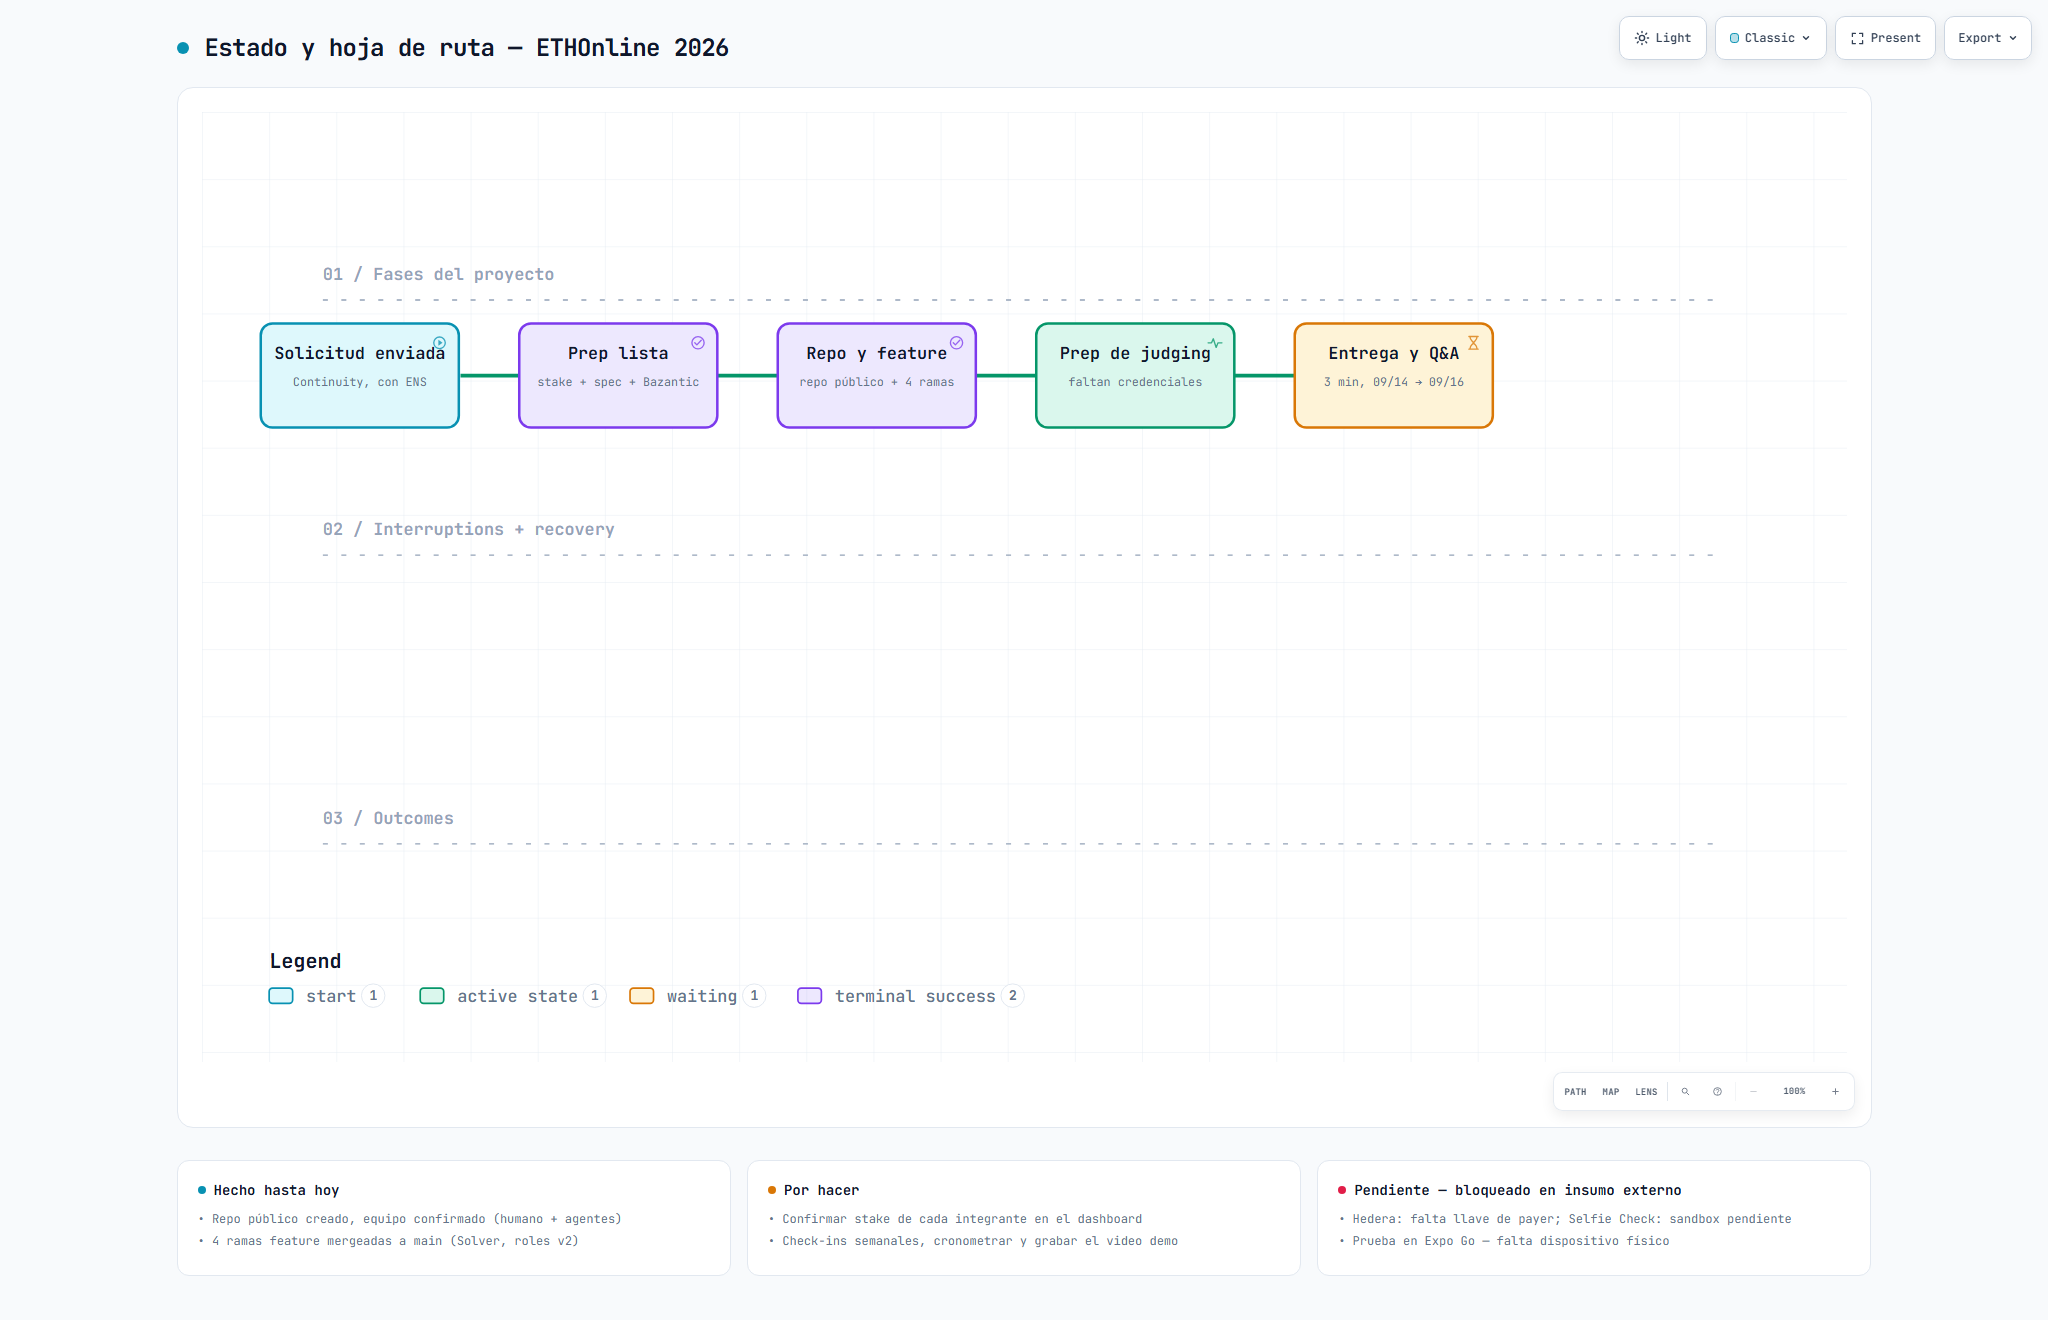
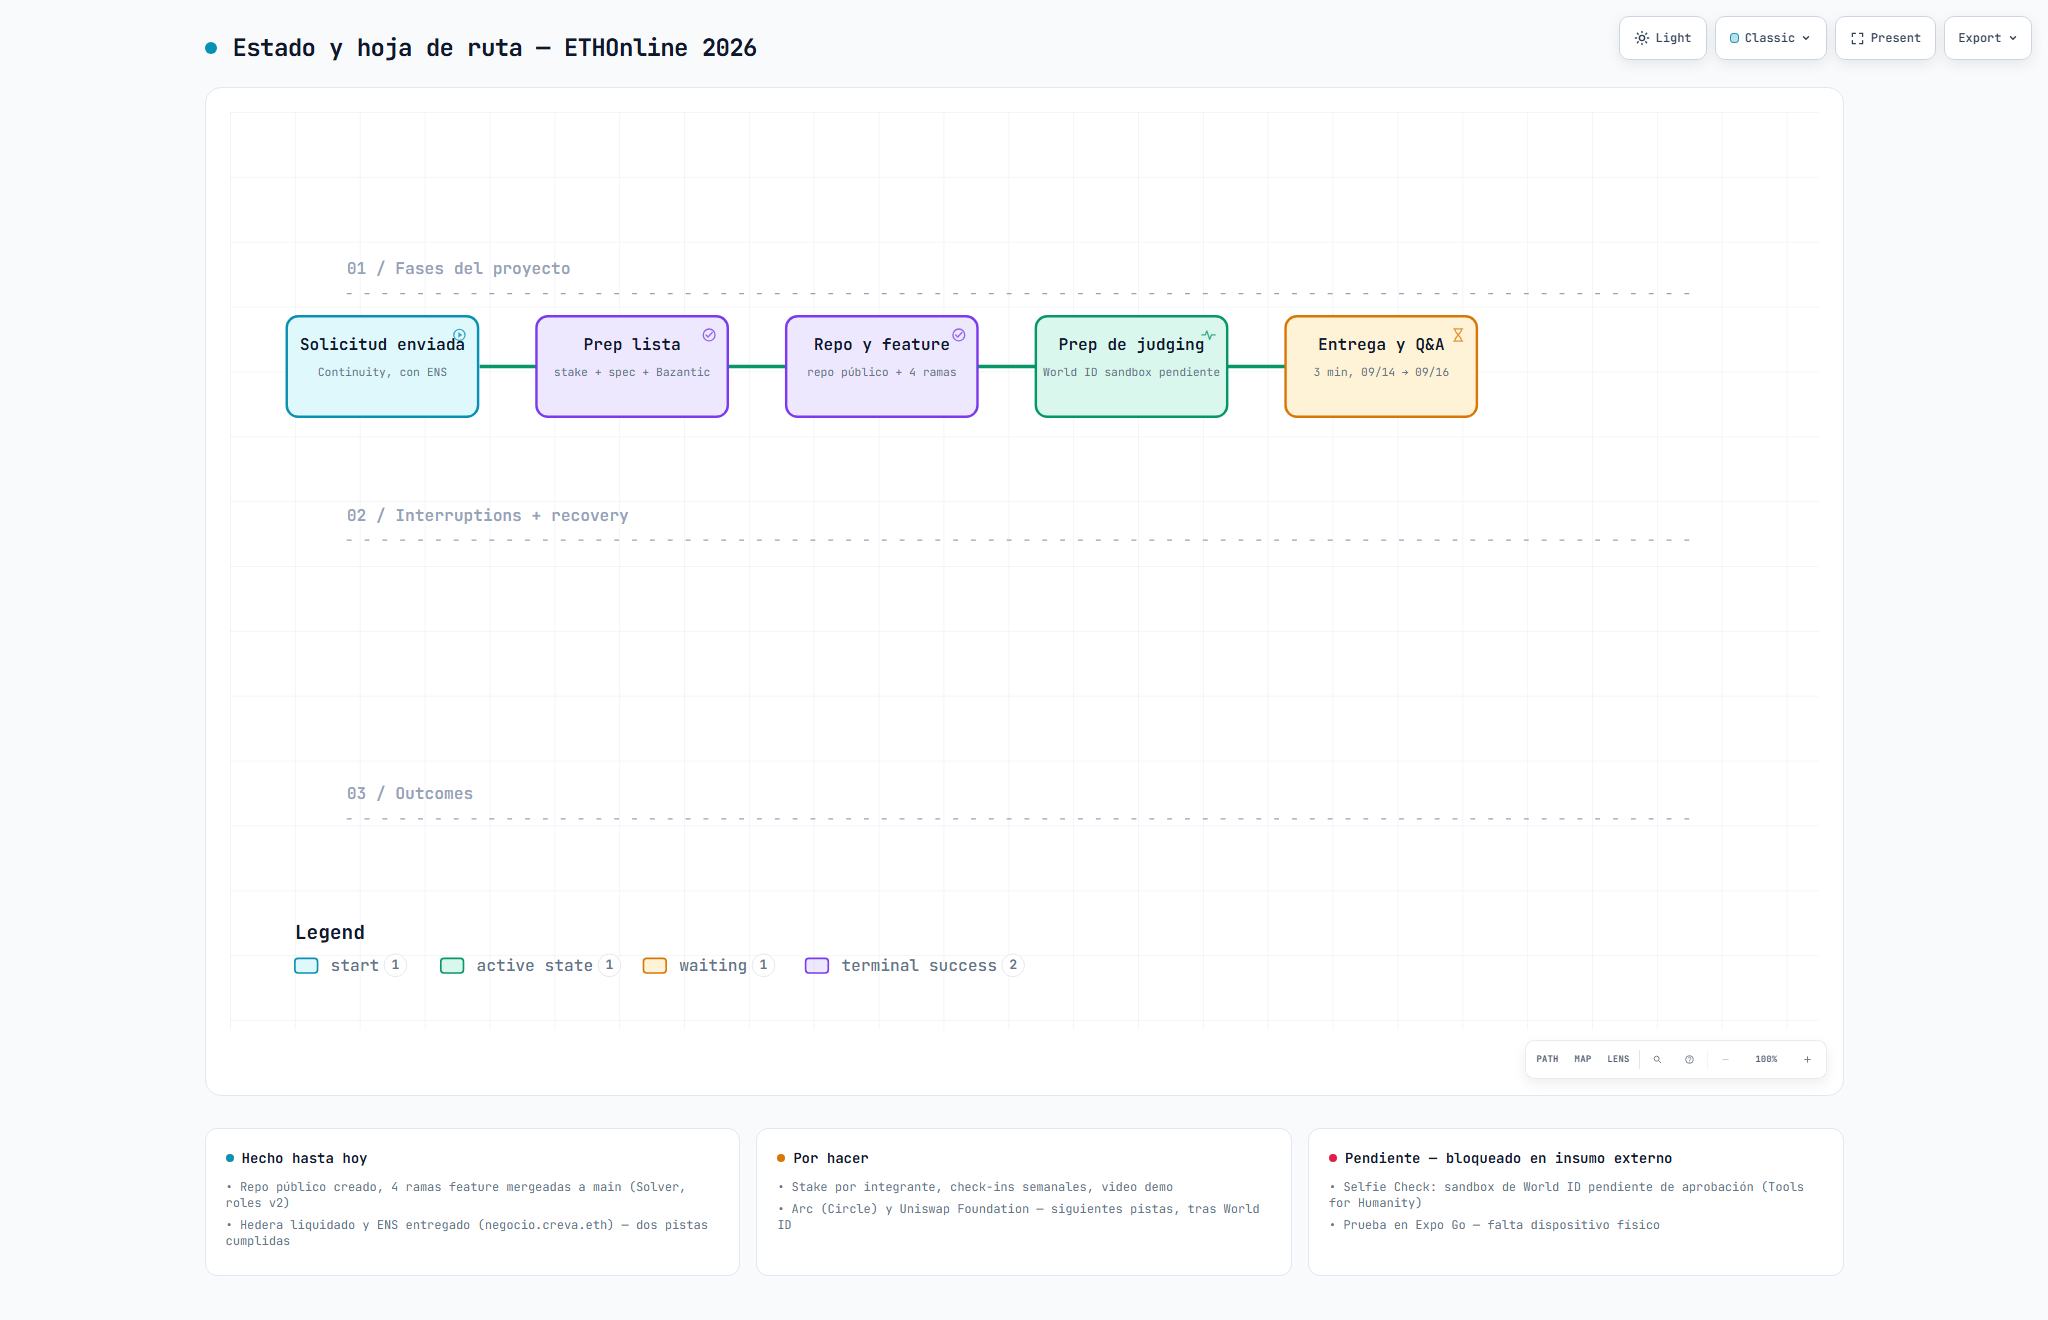
docs: reconcile sponsor scope across docs with plan.md source of truth

diff --git a/docs/estado.html b/docs/estado.html
@@ -5086,8 +5086,8 @@
         <text data-detail="fine" x="402" y="177" class="t-database" font-size="7" text-anchor="middle">hecho</text>
         </g>
 
-        <g id="node-judging_prep" data-node-id="judging_prep" data-node-label="Prep de judging" tabindex="0" role="button" aria-label="Focus Prep de judging, faltan credenciales, Fases del proyecto" aria-pressed="false" data-node-kind="active" data-node-sublabel="faltan credenciales" data-node-tag="en curso" data-node-context="Fases del proyecto">
-          <title>Prep de judging · faltan credenciales · Fases del proyecto · en curso</title>
+        <g id="node-judging_prep" data-node-id="judging_prep" data-node-label="Prep de judging" tabindex="0" role="button" aria-label="Focus Prep de judging, World ID sandbox pendiente, Fases del proyecto" aria-pressed="false" data-node-kind="active" data-node-sublabel="World ID sandbox pendiente" data-node-tag="en curso" data-node-context="Fases del proyecto">
+          <title>Prep de judging · World ID sandbox pendiente · Fases del proyecto · en curso</title>
           <rect x="497" y="126" width="118" height="62" rx="7" class="c-mask"/>
           <rect x="497" y="126" width="118" height="62" rx="7" class="c-backend" stroke-width="1.5"/>
           <g aria-hidden="true" data-semantic-sigil="active" class="semantic-sigil s-backend" transform="translate(598 132) scale(0.6875)">
@@ -5095,7 +5095,7 @@
           </g>
         <text data-detail="fine" x="507" y="140" class="t-backend" font-size="7" font-weight="700">04</text>
           <text data-node-label="" data-detail-anchor="" x="556" y="147" class="t-primary" font-size="10" font-weight="600" text-anchor="middle">Prep de judging</text>
-          <text data-detail="context" x="556" y="163" class="t-muted" font-size="7" text-anchor="middle">faltan credenciales</text>
+          <text data-detail="context" x="556" y="163" class="t-muted" font-size="7" text-anchor="middle">World ID sandbox pendiente</text>
         <text data-detail="fine" x="556" y="177" class="t-backend" font-size="7" text-anchor="middle">en curso</text>
         </g>
 
@@ -5327,8 +5327,8 @@
           <h3>Hecho hasta hoy</h3>
         </div>
         <ul>
-          <li>&bull; Repo público creado, equipo confirmado (humano + agentes)</li>
-          <li>&bull; 4 ramas feature mergeadas a main (Solver, roles v2)</li>
+          <li>&bull; Repo público creado, 4 ramas feature mergeadas a main (Solver, roles v2)</li>
+          <li>&bull; Hedera liquidado y ENS entregado (negocio.creva.eth) — dos pistas cumplidas</li>
         </ul>
       </div>
 
@@ -5338,8 +5338,8 @@
           <h3>Por hacer</h3>
         </div>
         <ul>
-          <li>&bull; Confirmar stake de cada integrante en el dashboard</li>
-          <li>&bull; Check-ins semanales, cronometrar y grabar el video demo</li>
+          <li>&bull; Stake por integrante, check-ins semanales, video demo</li>
+          <li>&bull; Arc (Circle) y Uniswap Foundation — siguientes pistas, tras World ID</li>
         </ul>
       </div>
 
@@ -5349,7 +5349,7 @@
           <h3>Pendiente — bloqueado en insumo externo</h3>
         </div>
         <ul>
-          <li>&bull; Hedera: falta llave de payer; Selfie Check: sandbox pendiente</li>
+          <li>&bull; Selfie Check: sandbox de World ID pendiente de aprobación (Tools for Humanity)</li>
           <li>&bull; Prueba en Expo Go — falta dispositivo físico</li>
         </ul>
       </div>

diff --git a/docs/video-script.md b/docs/video-script.md
@@ -15,17 +15,18 @@ Creva aparece como prueba de tracción, no como protagonista a quien convencer.
 | El héroe | El equipo — lo que construyó en los 12 días, no la usuaria |
 | TAM o mercado | La tesis regulatoria (§3 de `brainstorming.md`): sin Open Finance en México, el sello cripto sustituye al río de datos que el Estado no garantiza |
 | Tracción | Lo que ya corre: sello firmado en producción, señales de registros oficiales, 4 ramas integradas, spec pública |
-| Precio | No hay precio — el ask es la pista de premio: Hedera ($6k) + World ($3.5k) |
+| Precio | No hay precio — el ask son las pistas de premio: Hedera ($6k) + World ($3.5k) + ENS ($500, entregado) + Arc ($10k) + Uniswap Foundation ($5k) |
 | Éxito de la reunión | No hay "segunda reunión" literal — el equivalente es avanzar a finalista y que el jurado pida ver el repo |
 
 ## Restricción dura antes de grabar
 
-**No grabar la liquidación real de Hedera como si ya existiera.** `docs/plan.md` (bloque
-"Gateway x402/Hedera") dice, a la fecha de este guion, que el cliente del facilitador ya habla el
-formato real de BlockyDevs pero **todavía no hay una transacción real liquidada** — falta llave
-pagadora o JWT de Bazantic. Si eso sigue así el día de grabar, el guion de abajo usa lenguaje que
-es cierto sin esa pieza ("el gateway pide pago, listo para liquidar en Hedera testnet") — no
-"pagó", no "liquidó". Corregir esta nota en cuanto haya una tx real (ver `docs/memoria.md`).
+**Actualización `2026-09-05`: la liquidación real de Hedera ya existe — grabarla como hecho, no
+como pendiente.** `docs/plan.md` (bloque "Gateway x402/Hedera") confirma tx real liquidada en
+Hedera testnet, `result: SUCCESS`, hash `0.0.7162784-1788585962-768194628`
+(https://hashscan.io/testnet/transaction/0.0.7162784-1788585962-768194628). Lo que sigue pendiente
+el día de grabar es **World ID Sandbox** (aprobación de Tools for Humanity todavía no llega, ver
+`docs/plan.md`) — ese es el bloqueo real a nombrar en el beat de honestidad, no Hedera. Revisar
+`docs/plan.md` de nuevo el día de grabar por si el estado cambió otra vez.
 
 ## Guion — 180 segundos
 
@@ -36,8 +37,8 @@ es cierto sin esa pieza ("el gateway pide pago, listo para liquidar en Hedera te
 | 0:35–0:55 | **La respuesta — el sello, ya construido** | *"Creva ya emite un reporte firmado que cualquiera verifica sin cuenta — Ed25519, folio, cinco veredictos, y dice explícitamente qué NO acredita."* Mostrar `/verify` respondiendo en vivo contra un reporte real. |
 | 0:55–1:25 | **Lo nuevo — qué se construyó en el evento** | Selfie Check al alta (World, sin Orb) → query de señales gateada por x402 → verificación del sello, también gateada. Mostrar la app en Expo Go: pantalla de onboarding → pantalla de query → 402 → pantalla de reporte verificado. *"Cada consulta se paga individual, en vez de gastar la cuota compartida de Creva."* |
 | 1:25–1:45 | **Tracción agregada — la prueba de ejecución** | Un solo plano con las cifras reales: repo público, 4 ramas de feature integradas, suite de tests unit+fuzz+invariant en verde, spec OpenAPI con 46 rutas ya desplegada antes del evento. *"Esto no es un prototipo de una noche — es una integración real sobre un backend que ya sirve producción."* |
-| 1:45–2:05 | **Honestidad sobre lo que falta** | *"Lo que no hemos hecho todavía: liquidar un pago real contra Hedera testnet — el gateway ya habla el protocolo, falta la llave. Se los mostramos en vivo si el jurado quiere verlo."* (Ajustar si ya existe tx real para ese día — mostrar el hash.) |
-| 2:05–2:30 | **El ask** | *"Aplicamos a Hedera AI & Agentic Payments y a World Selfie Check, dentro de la pista Continuity. Les pedimos avanzar como finalistas — lo que ya corre es la prueba de que el resto se cierra."* |
+| 1:45–2:05 | **Honestidad sobre lo que falta** | *"Lo que no hemos cerrado todavía: Selfie Check contra el sandbox real de World — el enrollment está pendiente de aprobación de Tools for Humanity, no es trabajo nuestro sin hacer."* (Mostrar el hash de la tx real de Hedera ya liquidada como prueba de lo que sí cerró.) |
+| 2:05–2:30 | **El ask** | *"Aplicamos a Hedera AI & Agentic Payments, World Selfie Check, ENS, Arc de Circle y Uniswap Foundation, dentro de la pista Continuity. Les pedimos avanzar como finalistas — lo que ya corre es la prueba de que el resto se cierra."* |
 | 2:30–2:50 | **El cierre — hacia dónde va después** | *"El sello firmado y el sello de conocimiento cero son el mismo puerto con distinta implementación. `creva-zk` ya tiene los circuitos. Este es el paso uno."* |
 | 2:50–3:00 | **Llamado a la acción** | Repo público en pantalla, URL legible, folio del reporte de la demo legible en voz alta (regla de Creva: el folio se puede dictar). |
 

diff --git a/docs/slides-outline.md b/docs/slides-outline.md
@@ -24,7 +24,7 @@ sourced) — nunca con un número inventado para sonar completo |
 | 6 | Camino | **Lo que se construyó en el evento** | Las 3 pantallas reales de la app (capturas de Expo Go): onboarding, query pagada, reporte verificado |
 | 7 | Camino | **Tracción agregada** | Cifras verificables: repo público, 4 ramas de feature integradas, suite unit+fuzz+invariant en verde, spec OpenAPI con 46 rutas desplegada antes del evento |
 | 8 | Camino | **Arquitectura** | `app (Expo/RN) --x402--> gateway (Express) --> Creva API` — el mismo diagrama del README, una sola fuente de verdad |
-| 9 | Compromiso | **Honestidad + el ask** | Qué falta (liquidación real en Hedera testnet, con estado del día) + pistas objetivo: Hedera AI & Agentic Payments ($6k) y World Selfie Check ($3.5k), track Continuity |
+| 9 | Compromiso | **Honestidad + el ask** | Qué falta (Selfie Check contra sandbox real de World, bloqueado en aprobación de Tools for Humanity — la liquidación real de Hedera ya cerró, con hash) + pistas objetivo: Hedera AI & Agentic Payments ($6k), World Selfie Check ($3.5k), ENS ($500, entregado), Arc de Circle ($10k) y Uniswap Foundation ($5k), track Continuity |
 | 10 | Compromiso | **Cierre + siguiente paso** | Hacia dónde va (creva-zk, mismo puerto distinta implementación) + repo público en pantalla + folio del reporte de demo, legible en voz alta |
 
 ## Regla de consistencia con el video

diff --git a/brainstorming.md b/brainstorming.md
@@ -337,6 +337,14 @@ El sello (ya vivo)    →  la respuesta sale firmada, y dice qué NO acredita
 > `defineChain` de viem: hace falta chain ID **296**, el JSON-RPC Relay de Hedera, moneda nativa y
 > explorador. Es media hora si sale bien y una tarde si no. Verificarlo el día 1, no el día 8.
 
+> **Rev. 5, 2026-09-05 — el alcance creció de dos pistas a cinco; ver `docs/plan.md` para el
+> checklist vivo.** ENS ya se entregó (`negocio.creva.eth` registrado en Sepolia, $500). Arc de
+> Circle ($10k, idea 8 de §4) y Uniswap Foundation ($5k, contribución al stack) están abiertos como
+> siguiente paso, secuenciados después de World ID. Bazantic, Ledger, Privy y Chainlink siguen cada
+> uno gateados por un prerrequisito sin resolver — no se comprometen hasta que ese prerrequisito se
+> cumpla (`docs/plan.md`, sección de bloques abiertos). El eje World+Hedera de esta recomendación
+> **no cambia**; las pistas nuevas son extensiones sobre el mismo producto, no un pivote.
+
 **Por qué esta y no otra:**
 
 1. **Solo toca lo que existe.** Señales y sello están vivos; ni tarjeta, ni colateral, ni ZK.

diff --git a/README.md b/README.md
@@ -36,7 +36,9 @@ app (Expo/React Native)  --x402-->  gateway (Express)  -->  Creva API
    re-verify it's authentic and untampered, also paid per call.
 
 **Prize tracks targeted:** Hedera (AI & Agentic Payments — a live x402 service with a real
-settled payment) and World (Selfie Check). Continuity track for the ETHGlobal submission itself.
+settled payment), World (Selfie Check, blocked on Sandbox approval), ENS (`negocio.creva.eth`,
+delivered on Sepolia), Arc by Circle, and Uniswap Foundation (stack contribution). Continuity
+track for the ETHGlobal submission itself.
 
 ## Try it
 
